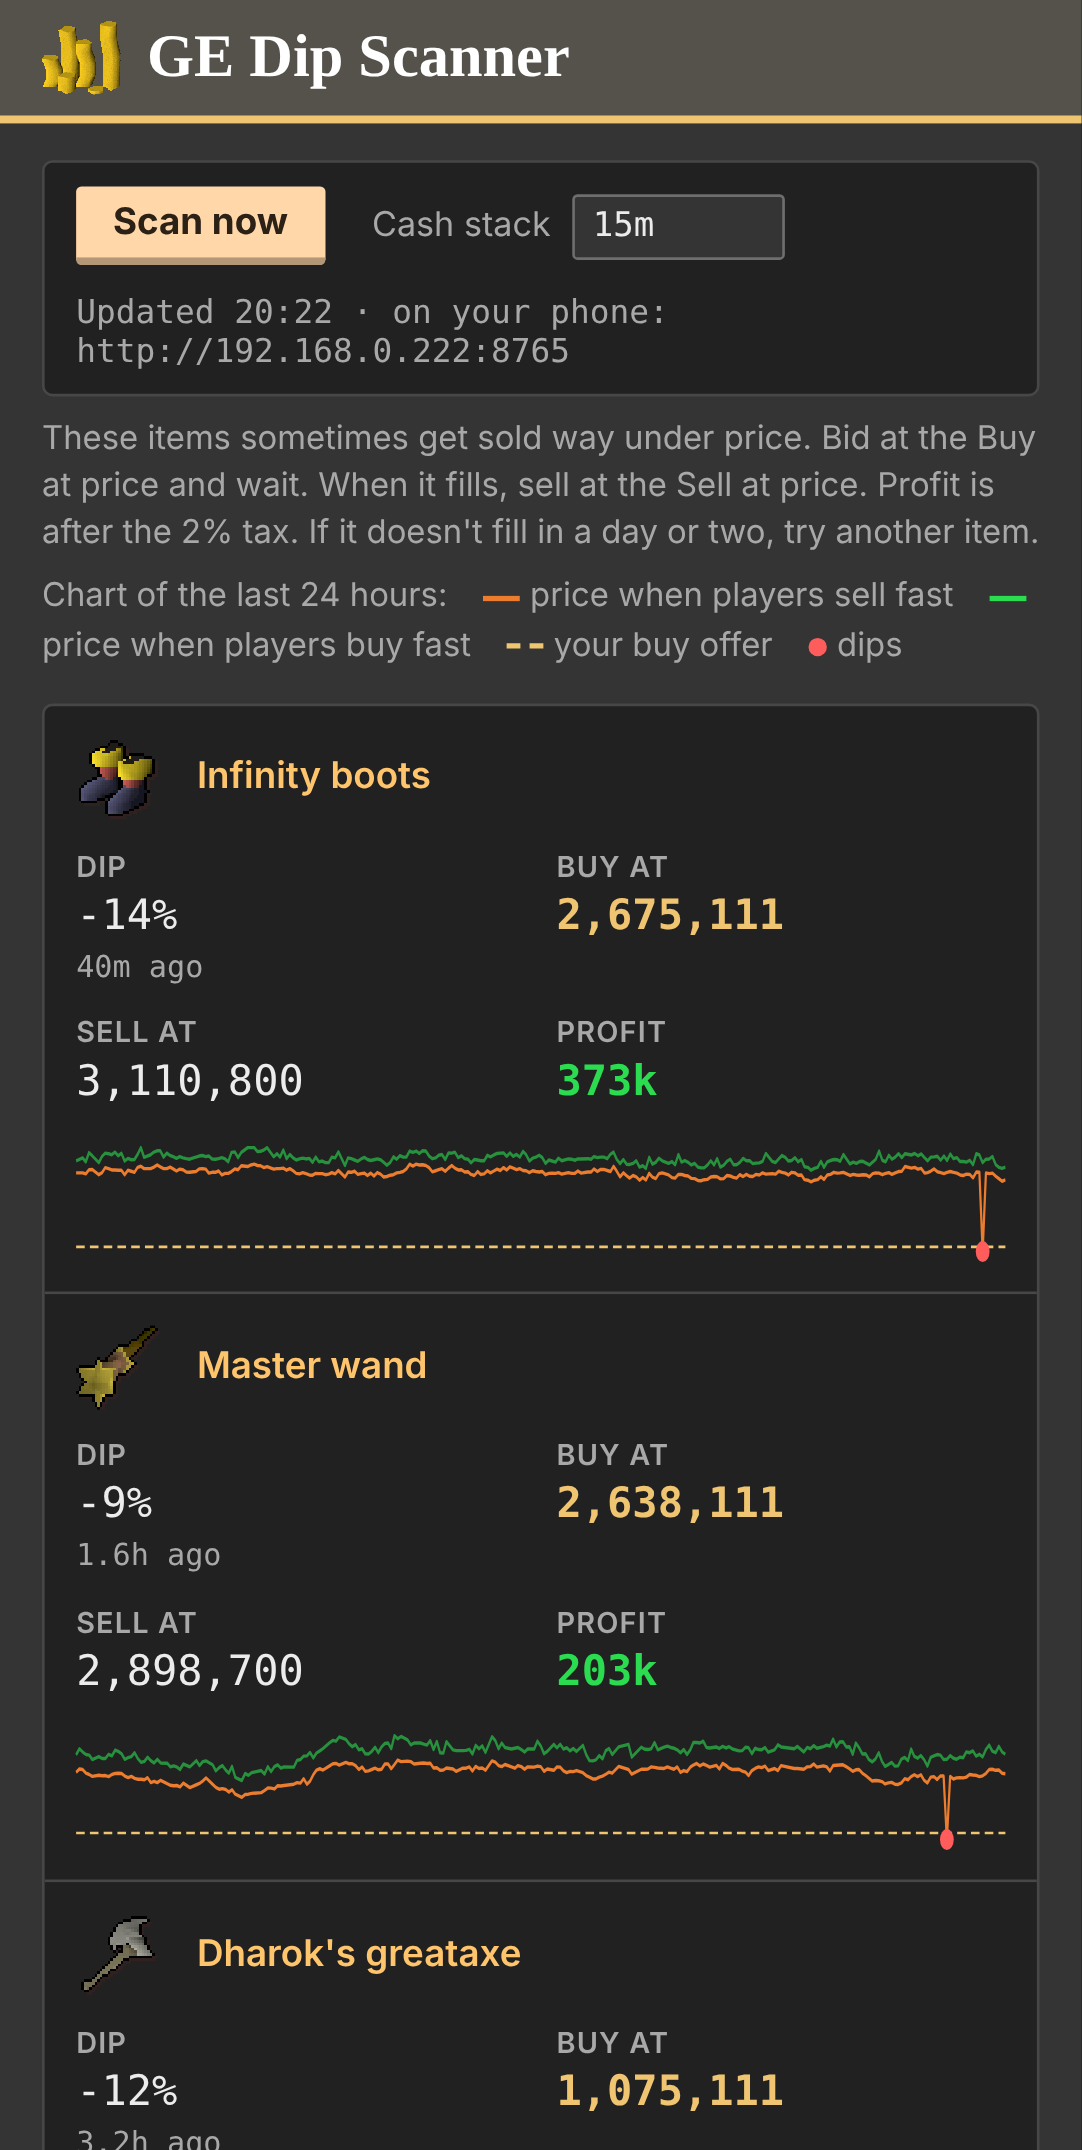
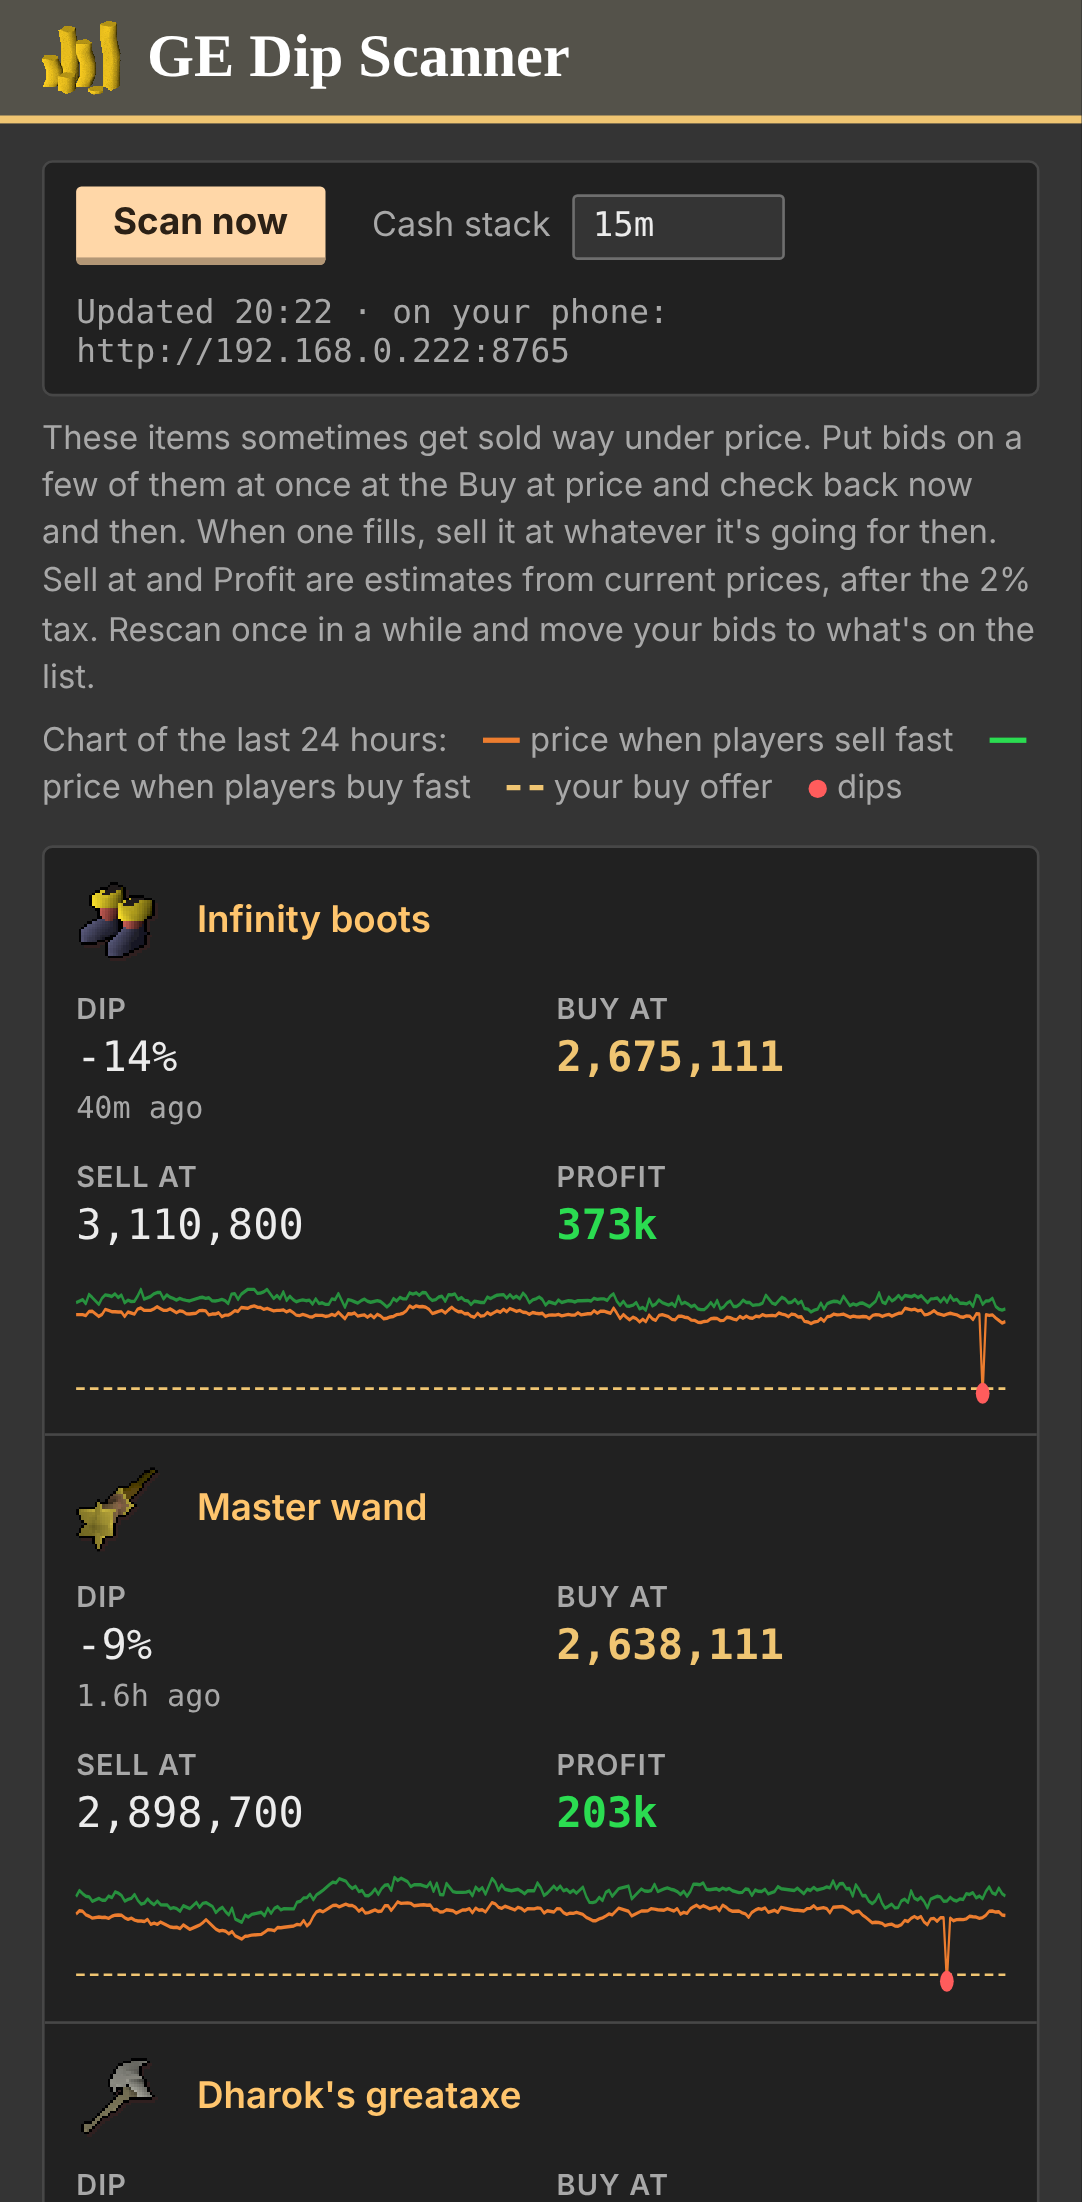
Describe the real workflow: several bids, check back, sell at the going price

diff --git a/dip_scanner.py b/dip_scanner.py
@@ -704,8 +704,10 @@ th.num {{ text-align:right }}
 <main>
 {toolbar}
 <div class="legend">
-<p>These items sometimes get sold way under price. Bid at the Buy at price and wait. When it fills,
-sell at the Sell at price. Profit is after the 2% tax. If it doesn't fill in a day or two, try another item.</p>
+<p>These items sometimes get sold way under price. Put bids on a few of them at once at the Buy at
+price and check back now and then. When one fills, sell it at whatever it's going for then. Sell at
+and Profit are estimates from current prices, after the 2% tax. Rescan once in a while and move your
+bids to what's on the list.</p>
 <p>Chart of the last 24 hours: <i style="background:var(--sell)"></i>price when players sell fast
 <i style="background:var(--buy)"></i>price when players buy fast <i style="border-top:2px dashed var(--gold)"></i>your buy offer
 <i class="dot"></i>dips</p>

diff --git a/README.md b/README.md
@@ -7,11 +7,11 @@ own flipping.
 
 ## How to use it
 
-1. Bid at the Buy at price.
-2. When it fills, sell at the Sell at price.
-3. If it doesn't fill in a day or two, try another item.
+1. Put bids on a few items at once, at their Buy at prices.
+2. Check back now and then. When one fills, sell it at whatever it's going for then.
+3. Rescan once in a while and move your bids to what's on the list.
 
-Profit is after the 2% GE tax.
+Sell at and Profit are estimates from current prices. Profit is after the 2% GE tax.
 
 ## Setup (Windows, once)
 
